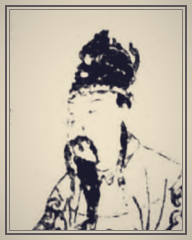
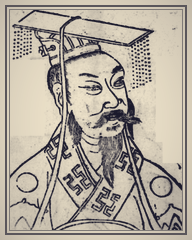
Give Liu Bei and Zhang Fei portraits that read as faces
The book behind the portrait set draws Liu Bei with hardly a line in
the face (a faint scan at portrait size) and Zhang Fei turned away,
which came out as a blotchy off-centre crop. Their portraits now come
from two other public-domain works, pinned in sources.toml:

* Liu Bei: 漢昭烈帝像 of 三才圖會 (1609), National Diet Library scan
  (Wikimedia's 3840 px render of the page), with the show-through of
  the back of the leaf painted out and the thin woodcut lines
  thickened to the weight of the set;
* Zhang Fei: the Ming hanging scroll 明人畫張飛像軸, Palace Museum.

portraits.toml entries can name another source with the figure's
printed panel (the levels are measured there and the crop must stay
inside it) and an optional bold filter; the table checks and the reuse
rules cover them, with unit tests. The two book figures they replace
are reserved so they never become stand-ins. The other 117 portraits
are byte-identical. CREDITS.md, credits.txt and the pipeline README
credit the new works. Checked by eye at 192x240, 104x130 and 64x80
next to Guan Yu, Zhao Yun, Zhuge Liang, Cao Cao and Lu Bu, which read
well enough to keep.

diff --git a/tools/assets/build_portraits.py b/tools/assets/build_portraits.py
@@ -1,11 +1,13 @@
 """Officer portraits (`gfx/portraits/<key>.png`) from the 繡像 pages of 增像全圖三國演義.
 
-Every portrait is a head-and-shoulders crop of one full-length figure of the book, chosen and
-framed by hand in `portraits.toml`. All of them get the same treatment so they read as one set
-next to the blue UI:
+Every portrait is a head-and-shoulders crop of one figure, chosen and framed by hand in
+`portraits.toml`: a full-length figure of that book, or (where the book's drawing does not read
+as a face at portrait size) a figure from another pinned woodblock book, whose printed panel on
+the scanned page is given so the levels ignore the rest of the scan. All of them get the same
+treatment so they read as one set next to the blue UI:
 
-1. the page scan is levelled (1st percentile -> ink, 60th percentile -> paper), which restores the
-   faded lithograph lines and clears the paper grain;
+1. the page scan (or the figure's panel) is levelled (1st percentile -> ink, 60th percentile ->
+   paper), which restores the faded lithograph lines and clears the paper grain;
 2. the crop is lightly denoised (3x3 median) and scaled to 192x240 (4:5, docs/ASSETS.md);
 3. brightness is mapped through one ramp from indigo ink to warm paper, with a soft vignette and
    an inset double rule echoing the frames printed around each figure in the book.
@@ -42,6 +44,9 @@ FRAME_INSET = 5  # px from the image edge to the outer rule; survives the UI's c
 FRAME_TONE = 0.30  # brightness of the rules (0 = ink, 1 = paper)
 
 
+Rect = tuple[int, int, int, int]
+
+
 @dataclass(frozen=True)
 class Portrait:
     key: str
@@ -52,16 +57,35 @@ class Portrait:
     width: int
     mirror: bool
     stand_in: bool
-    erase: tuple[tuple[int, int, int, int], ...] = ()
+    erase: tuple[Rect, ...] = ()
+    # Another pinned source than the 繡像 pages: its id, the part (page) and the printed panel of
+    # the figure on it. `page` and `quad` are unused then.
+    source: str = SOURCE
+    part: str = ""
+    panel: Rect | None = None
+    # Size of a minimum filter run over the levelled crop (odd, 0 = none): thickens thin lines
+    # to the weight of the set before the crop is scaled down.
+    bold: int = 0
 
     @property
-    def box(self) -> tuple[int, int, int, int]:
+    def box(self) -> Rect:
         """Crop box in page pixels: `face` sits at the horizontal centre, 40 % from the top."""
         w = self.width
         h = w * SIZE[1] // SIZE[0]
         left = self.face[0] - w // 2
         top = self.face[1] - h * 2 // 5
         return (left, top, left + w, top + h)
+
+    @property
+    def figure_id(self) -> tuple[str, str, str]:
+        """What identifies the drawn figure (for the reuse rules)."""
+        if self.source == SOURCE:
+            return (SOURCE, str(self.page), self.quad)
+        return (self.source, self.part, self.figure)
+
+
+def _rect(value: list[int]) -> Rect:
+    return (int(value[0]), int(value[1]), int(value[2]), int(value[3]))
 
 
 def load_table(path: Path = TOOLS_DIR / "portraits.toml") -> tuple[list[Portrait], dict[int, dict[str, str]], set[str]]:
@@ -72,17 +96,22 @@ def load_table(path: Path = TOOLS_DIR / "portraits.toml") -> tuple[list[Portrait
     reserved = set(doc["reserved"]["figures"])
     entries = []
     for key, e in doc["portraits"].items():
+        source = e.get("source", SOURCE)
         entries.append(
             Portrait(
                 key=key,
                 figure=e["figure"],
-                page=int(e["page"]),
-                quad=e["quad"],
+                page=int(e["page"]) if source == SOURCE else 0,
+                quad=e["quad"] if source == SOURCE else "",
                 face=(int(e["face"][0]), int(e["face"][1])),
                 width=int(e.get("width", 300)),
                 mirror=bool(e.get("mirror", False)),
                 stand_in=bool(e.get("stand_in", False)),
-                erase=tuple((int(r[0]), int(r[1]), int(r[2]), int(r[3])) for r in e.get("erase", [])),
+                erase=tuple(_rect(r) for r in e.get("erase", [])),
+                source=source,
+                part=str(e.get("part", "")),
+                panel=_rect(e["panel"]) if "panel" in e else None,
+                bold=int(e.get("bold", 0)),
             )
         )
     return entries, index, reserved
@@ -107,20 +136,27 @@ def check_table(
     by_key = {p.key: p for p in entries}
     for key in sorted(keys - set(by_key)):
         problems.append(f"officer portrait {key!r} has no entry in portraits.toml")
-    own = {(p.page, p.quad): p.key for p in entries if not p.stand_in}
-    users: dict[tuple[int, str], list[Portrait]] = {}
+    own = {p.figure_id: p.key for p in entries if not p.stand_in}
+    users: dict[tuple[str, str, str], list[Portrait]] = {}
     for p in entries:
-        users.setdefault((p.page, p.quad), []).append(p)
-        if p.stand_in and (p.page, p.quad) in own:
-            problems.append(f"{p.key}: {p.figure} is the own figure of {own[p.page, p.quad]}")
+        users.setdefault(p.figure_id, []).append(p)
+        if p.stand_in and p.figure_id in own:
+            problems.append(f"{p.key}: {p.figure} is the own figure of {own[p.figure_id]}")
+        if p.stand_in and p.figure in reserved:
+            problems.append(f"{p.key}: {p.figure} is reserved for its own person and cannot stand in")
+        if p.source != SOURCE:
+            # another book: no page index; the panel bounds the levels and the crop
+            if p.panel is None:
+                problems.append(f"{p.key}: a figure from {p.source} needs its `panel`")
+            elif not _inside(p.box, p.panel):
+                problems.append(f"{p.key}: crop box {p.box} leaves the panel {p.panel}")
+            continue
         printed = index.get(p.page, {}).get(p.quad)
         if printed is None:
             problems.append(f"{p.key}: page {p.page} {p.quad} is not in the page index")
             continue
         if printed != p.figure:
             problems.append(f"{p.key}: page {p.page} {p.quad} shows {printed}, not {p.figure}")
-        if p.stand_in and p.figure in reserved:
-            problems.append(f"{p.key}: {p.figure} is reserved for its own person and cannot stand in")
     for group in users.values():
         if len(group) > 2 or (len(group) == 2 and [p.mirror for p in group].count(True) != 1):
             keys = ", ".join(p.key for p in group)
@@ -128,6 +164,10 @@ def check_table(
     if problems:
         raise SourceError("portraits.toml:\n  " + "\n  ".join(problems))
     return sorted(set(by_key) - keys)
+
+
+def _inside(inner: Rect, outer: Rect) -> bool:
+    return outer[0] <= inner[0] and outer[1] <= inner[1] and inner[2] <= outer[2] and inner[3] <= outer[3]
 
 
 # ---------------------------------------------------------------------------------------------
@@ -145,9 +185,11 @@ def _percentile(img: Image.Image, q: float) -> int:
     return 255
 
 
-def _levels(page: Image.Image) -> Image.Image:
-    lo = _percentile(page, INK_PERCENTILE)
-    hi = max(lo + 1, _percentile(page, PAPER_PERCENTILE))
+def _levels(page: Image.Image, region: Rect | None = None) -> Image.Image:
+    """Stretch ink to black and paper to white, measured on the whole page or on `region`."""
+    sample = page if region is None else page.crop(region)
+    lo = _percentile(sample, INK_PERCENTILE)
+    hi = max(lo + 1, _percentile(sample, PAPER_PERCENTILE))
     lut = [round(255 * min(1.0, max(0.0, (v - lo) / (hi - lo))) ** GAMMA) for v in range(256)]
     return page.point(lut)
 
@@ -191,12 +233,15 @@ def render(page: Image.Image, p: Portrait) -> Image.Image:
     left, top, right, bottom = p.box
     if left < 0 or top < 0 or right > page.width or bottom > page.height:
         raise SourceError(f"{p.key}: crop box {p.box} leaves the {page.width}x{page.height} page")
-    levelled = _levels(page)
+    levelled = _levels(page, p.panel)
     if p.erase:
         draw = ImageDraw.Draw(levelled)
         for rect in p.erase:
             draw.rectangle(rect, fill=255)
-    crop = levelled.crop(p.box).filter(ImageFilter.MedianFilter(3))
+    crop = levelled.crop(p.box)
+    if p.bold:
+        crop = crop.filter(ImageFilter.MinFilter(p.bold))
+    crop = crop.filter(ImageFilter.MedianFilter(3))
     tone = crop.resize(SIZE, Image.Resampling.LANCZOS)
     if p.mirror:
         tone = tone.transpose(Image.Transpose.FLIP_LEFT_RIGHT)
@@ -230,12 +275,13 @@ def build_portraits(src: Sources, pack: Path) -> list[str]:
         print(f"  portraits no officer uses (drawn anyway): {', '.join(unused)}")
     out_dir = pack / "gfx" / "portraits"
     written = []
-    pages: dict[int, Image.Image] = {}
-    for p in sorted(entries, key=lambda e: (e.page, e.key)):
-        if p.page not in pages:
-            with Image.open(src.path(SOURCE, str(p.page))) as im:
-                pages[p.page] = im.convert("L")
-        save_png(render(pages[p.page], p), out_dir / f"{p.key}.png")
+    pages: dict[tuple[str, str], Image.Image] = {}
+    for p in sorted(entries, key=lambda e: (e.source, e.page, e.part, e.key)):
+        page_id = (SOURCE, str(p.page)) if p.source == SOURCE else (p.source, p.part)
+        if page_id not in pages:
+            with Image.open(src.path(*page_id)) as im:
+                pages[page_id] = im.convert("L")
+        save_png(render(pages[page_id], p), out_dir / f"{p.key}.png")
         written.append(f"gfx/portraits/{p.key}.png")
     save_png(unknown_portrait(), out_dir / "_unknown.png")
     written.append("gfx/portraits/_unknown.png")

diff --git a/tools/assets/test_pipeline.py b/tools/assets/test_pipeline.py
@@ -177,6 +177,26 @@ class PortraitTableTest(unittest.TestCase):
         with self.assertRaises(SourceError):
             self.check([portrait("a", "董卓", "BL", stand_in=True)], {"a"}, frozenset({"董卓"}))
 
+    def other_book(
+        self, key: str, panel: tuple[int, int, int, int] | None = (0, 0, 1000, 1000), stand_in: bool = False
+    ) -> Portrait:
+        return Portrait(
+            key, "漢昭烈帝", 0, "", (500, 500), 400, False, stand_in, source="book2", part="63", panel=panel
+        )
+
+    def test_figures_of_another_book_need_a_panel_holding_the_crop(self) -> None:
+        self.assertEqual(self.check([portrait("a", "丁原"), self.other_book("b")], {"a", "b"}), [])
+        for name, entry in {
+            "no panel": self.other_book("b", panel=None),
+            "crop leaves the panel": self.other_book("b", panel=(0, 0, 600, 1000)),
+        }.items():
+            with self.subTest(name), self.assertRaises(SourceError):
+                self.check([entry], {"b"})
+
+    def test_reuse_rules_hold_for_another_book(self) -> None:
+        with self.assertRaises(SourceError):  # the same drawing twice, neither mirrored
+            self.check([self.other_book("a"), self.other_book("b", stand_in=True)], {"a", "b"})
+
 
 class GradeTest(unittest.TestCase):
     def test_tone_curve_is_monotonic_and_caps_highlights(self) -> None:

diff --git a/CREDITS.md b/CREDITS.md
@@ -90,11 +90,22 @@ in-game credits are `data/base/credits.txt`; the web demo serves them with the p
   <https://commons.wikimedia.org/wiki/File:CADAL07015122_%E7%B6%89%E5%83%8F%E4%B8%89%E5%9C%8B%E5%BF%97%E6%BC%94%E7%BE%A9.djvu>;
   the pipeline reads Wikimedia's 1920 px renders of djvu pages 16-35 and 37-50 (each pinned in
   `tools/assets/sources.toml`)
-* **Used in:** `gfx/portraits/*.png` except `_unknown.png`
+* **Used in:** `gfx/portraits/*.png` except `_unknown.png`, `liu_bei.png` and `zhang_fei.png`
 * **Changes:** head-and-shoulders crops, levels, light denoise, recoloured to ink on warm paper,
-  vignette and frame. 52 officers show their own figure from the book; the others, whom the book
+  vignette and frame. 50 officers show their own figure from the book; the others, whom the book
   does not draw, show the figure of another person of the book (one figure serves two people at
   most, the second mirrored). `tools/assets/portraits.toml` lists every officer's figure.
+
+### Portraits of Liu Bei and Zhang Fei
+
+The book draws Liu Bei with hardly a line in the face and Zhang Fei turned away, so these two
+portraits come from other public-domain works, with the same treatment as above (Liu Bei's thin
+woodblock lines are also thickened; show-through from the back of the leaf is painted out).
+
+| output | work | artist | holding / scan | licence | source |
+|---|---|---|---|---|---|
+| `gfx/portraits/liu_bei.png` | 三才圖會 *Sancai Tuhui* (1609), 人物 section, 漢昭烈帝像 | compiled by Wang Qi (王圻) and Wang Siyi (王思義); woodcut, artist unknown | National Diet Library, Japan (三才圖會 106卷, vol. 7) | public domain | <https://commons.wikimedia.org/wiki/File:NDL2574372_%E4%B8%89%E6%89%8D%E5%9C%96%E6%9C%83_106%E5%8D%B7.(7)_part1.pdf> (page 63, Wikimedia's 3840 px render) |
+| `gfx/portraits/zhang_fei.png` | 明人畫張飛像軸 *Portrait of Zhang Fei*, hanging scroll | anonymous, Ming dynasty | Palace Museum, Beijing | public domain | <https://commons.wikimedia.org/wiki/File:%E6%98%8E%E4%BA%BA%E7%94%BB%E5%BC%A0%E9%A3%9E%E5%83%8F%E8%BD%B4.png> |
 
 ### Paintings used for the drama backgrounds
 

diff --git a/tools/assets/README.md b/tools/assets/README.md
@@ -186,7 +186,10 @@ source file of each key): `cursor`, `confirm`, `cancel`, `error`, `step`, `hit`,
 
 192x240 head-and-shoulders crops of the full-length figures in the portrait section of
 增像全圖三國演義 (a late-Qing illustrated edition of the novel, public domain), levelled, lightly
-denoised, recoloured to indigo ink on warm paper and framed. `portraits.toml` maps every officer of
+denoised, recoloured to indigo ink on warm paper and framed. Two officers whose figure in that book
+does not read as a face at this size take theirs from other pinned public-domain works with the
+same treatment: 劉備 from 三才圖會 (1609) and 張飛 from a Ming hanging scroll (entries with
+`source` and `panel` in `portraits.toml`). `portraits.toml` maps every officer of
 `data/base/officers.toml` to a figure (page, quarter, face point, crop width, optional `erase`
 rectangles for printed text); the build refuses a table that misses an officer, names the wrong
 figure, uses a reserved figure as a stand-in or uses a figure more than twice, and lists entries no
